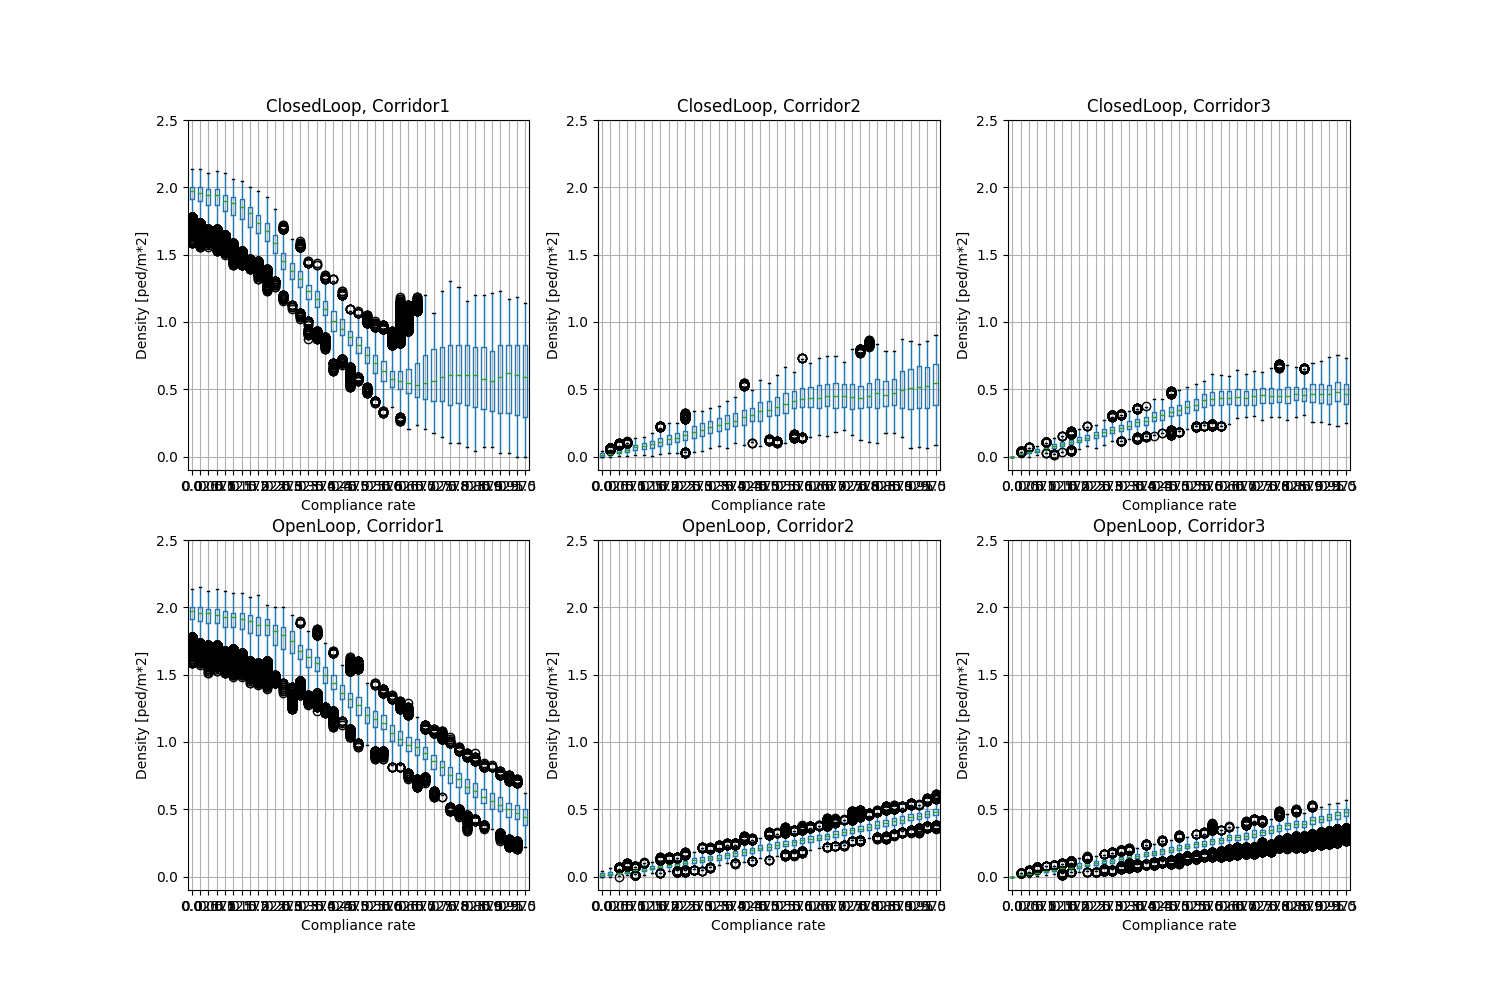
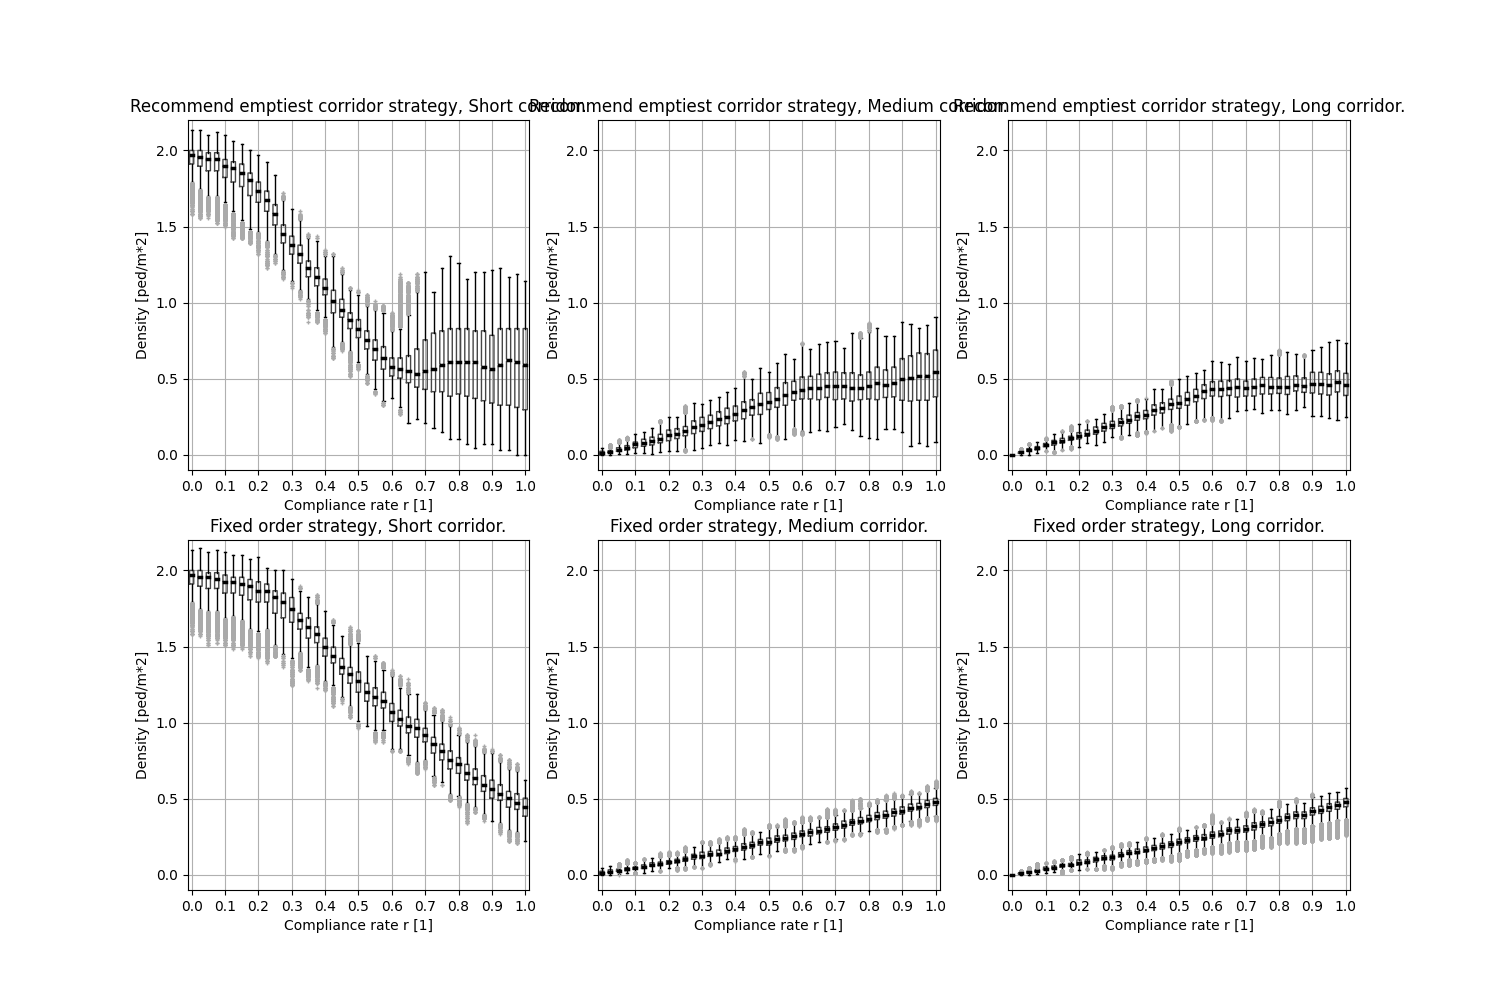
correct plots

Changed region(s): [[0.092, 0.093, 0.92, 0.93]]

diff --git a/analysis/uq/simulation_studies/guiding_crowds_forward_propagation/step_3_analyze_results.py b/analysis/uq/simulation_studies/guiding_crowds_forward_propagation/step_3_analyze_results.py
@@ -17,6 +17,15 @@ velocities_dict = {'velocity-PID25': "Corridor1",
 densities_dict = {'density-PID25': "Corridor1",
              'density-PID27': "Corridor2",
              'density-PID29': "Corridor3"}
+c__ = {11: "Short",
+       31: "Medium",
+       51: "Long",
+       'Corridor1': "Short",
+       'Corridor2':  "Medium",
+       'Corridor3':  "Long",
+       }
+controller__ = {"OpenLoop": "Fixed order strategy",
+                "ClosedLoop" : "Recommend emptiest corridor strategy" }
 sim_time_steady_flow_start = 100
 sim_time_steady_flow_end = 500
 time_step_size = 0.4
@@ -26,13 +35,16 @@ reaction_prob_key_short = "reactionProbability"
 probs = np.linspace(0, 1.0, 11)
 probs = np.linspace(0, 1.0, 41)
 
-def get_fundamental_diagrams(controller_type):
+def get_fundamental_diagrams(controller_type, time_start=None):
+    if time_start is None:
+        time_start = sim_time_steady_flow_start
+
     c1 = pd.read_csv(f"{controller_type}_parameters.csv", index_col=[0, 1])
     c2 = pd.read_csv(f"{controller_type}_fundamentalDiagramm.csv", index_col=[0, 1])
     densities_closed_loop = c1.join(c2)
 
     densities_closed_loop[simulation_time] = densities_closed_loop[time_step_key] * time_step_size
-    densities_closed_loop = densities_closed_loop[densities_closed_loop[simulation_time] >= sim_time_steady_flow_start]
+    densities_closed_loop = densities_closed_loop[densities_closed_loop[simulation_time] >= time_start]
     densities_closed_loop = densities_closed_loop[densities_closed_loop[simulation_time] < sim_time_steady_flow_end]
     densities_closed_loop.drop([seed_key_key, wall_clock_time_key, return_code_key, time_step_key], axis=1,
                                inplace=True)
@@ -164,19 +176,74 @@ def plot_travel_time(travel_time):
     plt.savefig("figs/Travel_time")
     plt.show()
 
+def get_fundamental_diagram_corridor1():
+    densities, velocities = get_fundamental_diagrams(controller_type="NoController", time_start=0.0)
 
+    for c in ["Corridor1"]:
+        velocities[c][densities[c] == 0] = np.nan
+        densities[c][densities[c] == 0] = np.nan
+
+    densities.dropna(inplace=True)
+    velocities.dropna(inplace=True)
+
+    flux = densities["Corridor1"]*velocities["Corridor1"]
+
+    from sklearn.preprocessing import PolynomialFeatures
+    from sklearn.pipeline import make_pipeline
+    from sklearn.linear_model import LinearRegression
+    degree=2
+    polyreg=make_pipeline(PolynomialFeatures(degree),LinearRegression())
+    polyreg.fit(densities["Corridor1"].values.reshape(-1, 1), flux.values.reshape(-1, 1))
+
+
+
+
+    plt.scatter(densities["Corridor1"], flux, label= "Simulation data" )
+    d__ = np.linspace(0,2.1)
+    flow_reg = polyreg.predict(d__.reshape(-1, 1))
+    plt.plot(d__, flow_reg.ravel(), color="black", label= "Regression (poly.)")
+
+    d___ = np.linspace(2.1, 3.2)
+    flow_reg_ = polyreg.predict(d___.reshape(-1, 1))
+    plt.plot(d___, flow_reg_.ravel(), color="black", linestyle= "--", label=None)
+
+    plt.scatter(2.1, flow_reg.max(), marker="D", c="black", label="$J_{1,max}$ (Regression)")
+    plt.text(2.1+0.1, flow_reg.max()+0.05, f'{flow_reg.max():.2f} (d = 2.1 $ped/m^{2}$)')
+
+    densitiy_max_flux = densities.iloc[np.where(flux==flux.max())[0][0], :]["Corridor1"]
+    plt.scatter(densitiy_max_flux, flux.max(), marker="s", c="black", label="$J_{1,max}$ (Data)")
+    plt.text(densitiy_max_flux+0.1, flux.max() + 0.0, f'{flux.max():.2f} (d = {densitiy_max_flux:.2f} $ped/m^{2}$)')
+
+
+
+    plt.xlabel("Density [ped/m²]")
+    plt.ylabel("Specific flow [1/(ms)]")
+    plt.xlim(-0.1,3.5)
+    plt.title(f"Fundamental diagram: short corridor")
+    plt.legend()
+    plt.savefig(f"figs/fundamentalDiagramShortCorridor1.png")
+    plt.show()
+
+    plt.scatter(densities["Corridor1"], velocities["Corridor1"], label="Simulation data")
+    plt.xlabel("Density [$ped/m^{2}$]")
+    plt.ylabel("Velocity [m/s]")
+    plt.title(f"Fundamental diagram: short corridor")
+    plt.xlim(-0.1, 3.5)
+    plt.legend()
+    plt.savefig(f"figs/fundamentalDiagramShortCorridor2.png")
+    plt.show()
+
+    return densities, velocities
 
 
 def get_densities_velocities():
     densities_closed_loop, velocities_closed_loop = get_fundamental_diagrams(controller_type="ClosedLoop")
     densities_open_loop, velocities_open_loop = get_fundamental_diagrams(controller_type="OpenLoop")
-    densities_default, velocities_default = get_fundamental_diagrams(controller_type="NoController")
 
     densities = pd.concat([densities_closed_loop, densities_open_loop])
     velocities = pd.concat([velocities_closed_loop, velocities_open_loop])
 
     for c in corridors.values():
-        #nan velocities in case there is no agent in the corridor
         velocities[c][densities[c] == 0] = np.nan
 
     return densities, velocities
@@ -227,40 +294,60 @@ def plot_quantity(densities, file_name, y_min=0, y_max=2.5, ylabel="Density [ped
         ii = 0
         for corridor_ in densities_.columns.get_level_values(0).unique():
             densities__ = densities_.xs(corridor_, axis=1)
+            flierprops = dict(marker='+', markerfacecolor='#AAAAAA', markersize=3,
+                              linestyle='none', markeredgecolor='#AAAAAA')
             plt.sca(ax[i, ii])
-            densities__.boxplot()
-            ax[i, ii].set_title(f"{c}, {corridor_}")
+            densities__.boxplot(flierprops=flierprops,
+                                boxprops=dict(color ='#464646'),
+                                whiskerprops=dict(linewidth=1),
+                                medianprops=dict(linewidth=2.5, color='k'),
+                                notch=True
+                                )
+            ax[i, ii].set_title(f"{controller__[c]}, {c__[corridor_]} corridor.")
             ax[i, ii].set_ylim(y_min, y_max)
-            ax[i, ii].set_xlabel("Compliance rate")
+            ax[i, ii].set_xlabel("Compliance rate r [1]")
             ax[i, ii].set_ylabel(ylabel)
+            ax[i, ii].set_xticks(np.arange(1,45,4))
+            ax[i, ii].set_xticklabels([f"{x:.1f}" for x in np.linspace(0,1,11)])
+
             ii += 1
         i += 1
 
     plt.savefig(f"figs/{file_name}.png")
     plt.show()
+    print()
 
-def plot_route_1_recommended(path_choice, corridor= 11):
+def plot_route_1_recommended(path_choice, corridor_= 11):
+
+
+    corridor = c__[corridor_]
+
     pp = path_choice[path_choice["Controller"] == "OpenLoop"]
-    pp = pp[pp["corridorRecommended"] == corridor]
+    pp = pp[pp["corridorRecommended"] == corridor_]
     ppp = pp.groupby(by=reaction_prob_key_short).count()
 
     pp = path_choice[path_choice["Controller"] == "ClosedLoop"]
-    pp = pp[pp["corridorRecommended"] == corridor]
+    pp = pp[pp["corridorRecommended"] == corridor_]
     pp = pp.groupby(by=reaction_prob_key_short).count()
 
     ppp = pd.concat([ppp["corridorRecommended"], pp["corridorRecommended"]], axis=1).fillna(0)
-    ppp.columns = ["OpenLoop", "ClosedLoop"]
-    ppp.plot()
+    ppp.columns = list(controller__.values())
+    ppp.plot(marker="o")
+    plt.ylim(-10,300)
     plt.ylabel("Counts")
-    plt.title(f"Corridor {corridor} recommended")
+    plt.xlabel("Compliance rate r [1]")
+    plt.title(f"{corridor} route recommended")
     plt.savefig(f"figs/route{corridor}recommded.png")
     plt.show()
+    print()
 
 
 if __name__ == "__main__":
 
+    a,b = get_fundamental_diagram_corridor1()
+
     path_choice = pd.concat([get_path_choice("OpenLoop"), get_path_choice("ClosedLoop")], axis=0)
-    plot_route_1_recommended(path_choice)
+    plot_route_1_recommended(path_choice, 11)
     plot_route_1_recommended(path_choice, 31)
     plot_route_1_recommended(path_choice, 51)
 
@@ -269,14 +356,8 @@ if __name__ == "__main__":
 
     densities, velocities = get_densities_velocities()
 
-    plot_quantity(densities, "densities", y_min=-0.1, y_max=2.5, ylabel="Density [ped/m*2]")
-    plot_quantity(velocities, "velocities", y_min=-0.1, y_max=1.8, ylabel="Velocities [m/s]")
-
-    densities_normed_A = get_densities_normed(densities, density_thres=0.31,)
-    plot_quantity(densities_normed_A, "densities_LOS_A", y_min=-0.1, y_max=0.5, ylabel="Density value [1]")
-
-    densities_normed_15 = get_densities_normed(densities, density_thres=0.141)
-    plot_quantity(densities_normed_15, "densities_LOS_15", y_min=-0.1, y_max=0.5, ylabel="Density value [1]")
+    plot_quantity(densities, "densities", y_min=-0.1, y_max=2.2, ylabel="Density [ped/m*2]")
+    plot_quantity(velocities, "velocities", y_min=-0.1, y_max=2.2, ylabel="Velocities [m/s]")
 
     # write table data
 
@@ -297,7 +378,4 @@ if __name__ == "__main__":
         groupby(by=["Controller", reaction_prob_key_short]).\
         mean().\
         to_latex("tables/densities_mean.tex")
-
-    print()
-
 
